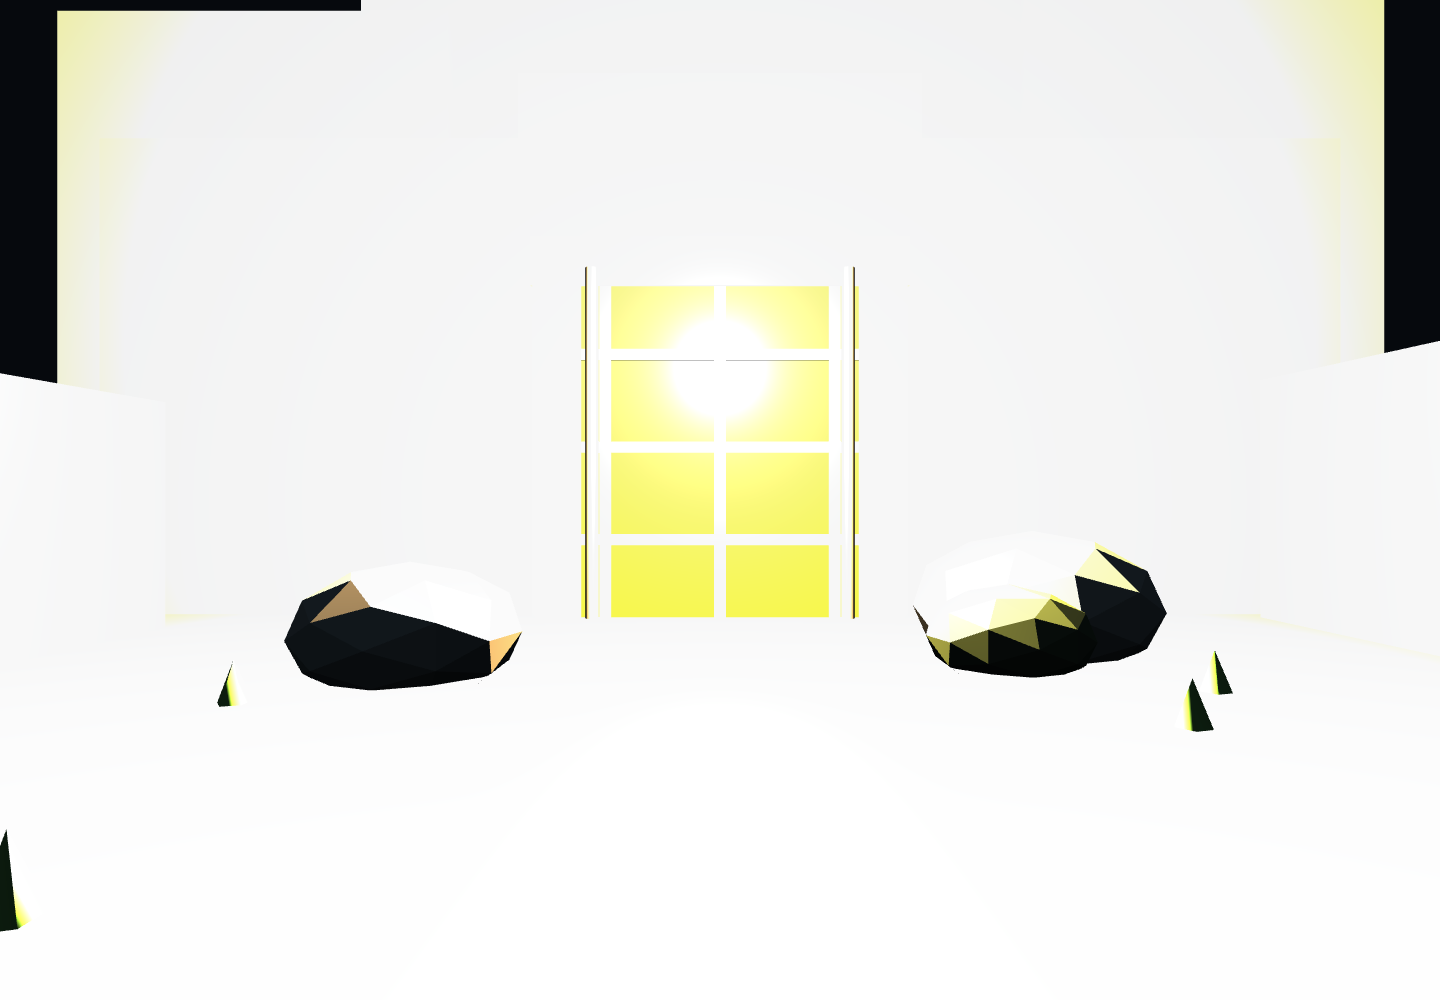
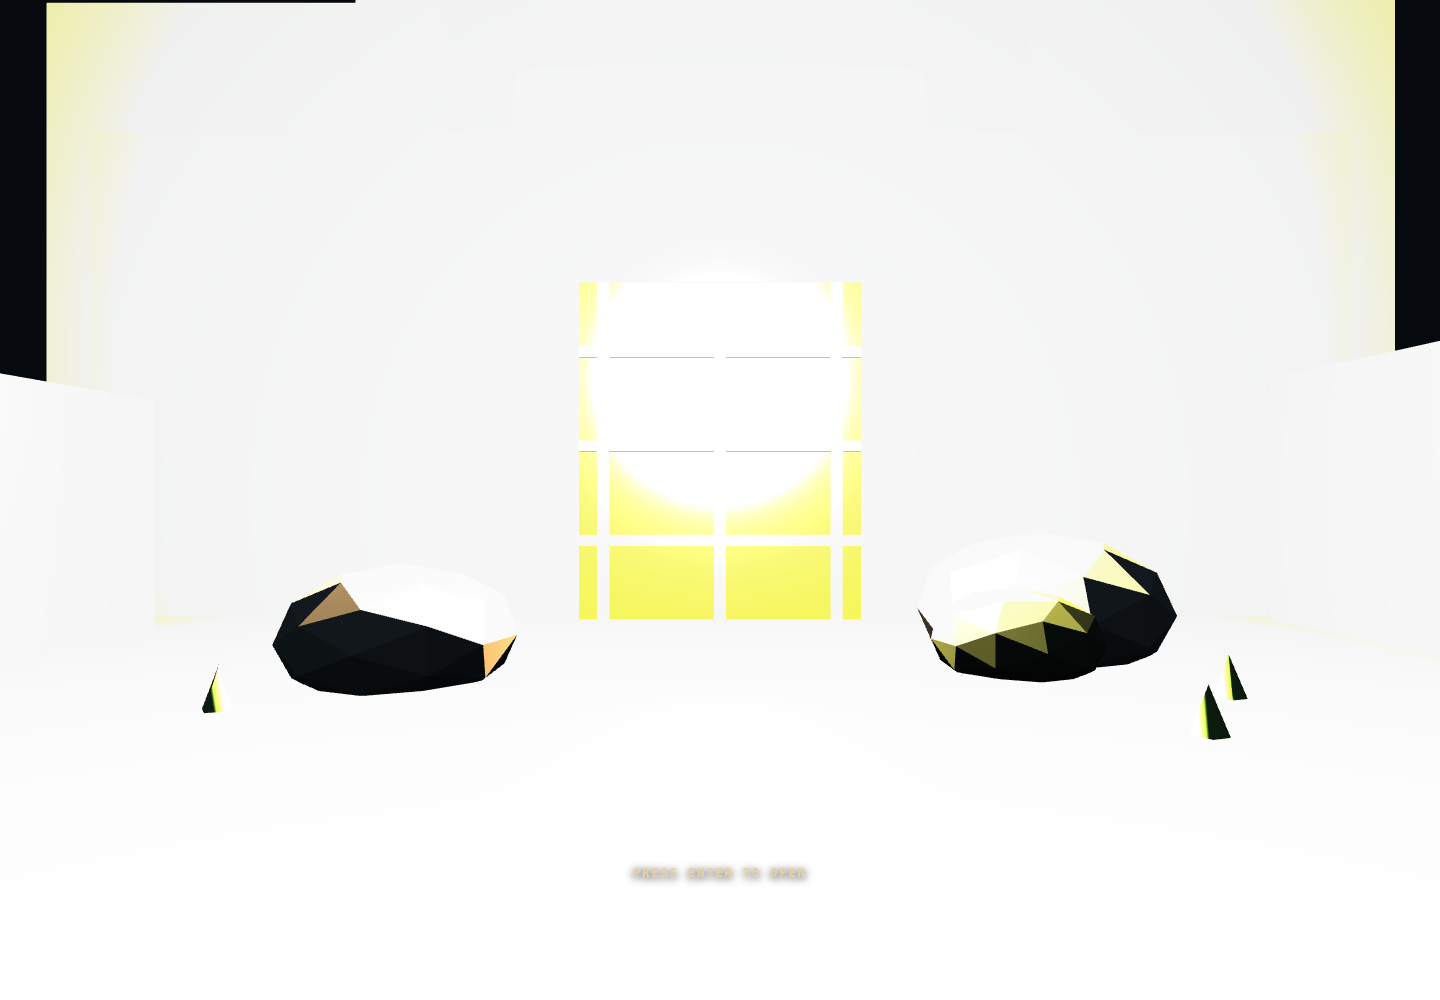
feat: implement main door interaction

diff --git a/src/game/mainDoor.ts b/src/game/mainDoor.ts
@@ -1,19 +1,18 @@
-import { Color3, MeshBuilder, PhysicsAggregate, PhysicsShapeType, StandardMaterial, Vector3, type Scene } from "@babylonjs/core";
-
-export const DOOR_STATE = "CLOSED" as const;
-export type MainDoor = { state: typeof DOOR_STATE; position: Vector3; collisionEnabled: true };
+import { Color3, MeshBuilder, PhysicsAggregate, PhysicsShapeType, StandardMaterial, TransformNode, Vector3, type Scene } from "@babylonjs/core";
+export type DoorState = "CLOSED" | "OPENING" | "OPEN";
+export type MainDoor = { position: Vector3; state: DoorState; angle: number; sealEnabled: boolean; traversable: boolean; root: TransformNode; interact(): boolean; update(dt:number): void; reset(): void };
 
 export function buildMainDoor(scene: Scene, position: Vector3): MainDoor {
-  const wood = new StandardMaterial("door-oak", scene); wood.diffuseColor = new Color3(.13, .065, .025); wood.specularColor = new Color3(.04, .025, .01);
-  const iron = new StandardMaterial("door-iron", scene); iron.diffuseColor = new Color3(.09, .1, .1); iron.specularColor = new Color3(.16, .17, .16);
-  const slab = MeshBuilder.CreateBox("main-door-closed", { width: 3.8, height: 4.6, depth: .34 }, scene); slab.position.copyFrom(position); slab.position.y = 2.3; slab.material = wood;
-  new PhysicsAggregate(slab, PhysicsShapeType.BOX, { mass: 0, friction: .9 }, scene);
-  // One deliberately oversized CLOSED-state seal closes both leaf-edge and jamb gaps.
-  // CAVE-004 can replace this single aggregate when the door begins to animate.
-  const seal = MeshBuilder.CreateBox("main-door-closed-seal", { width: 5.05, height: 5.2, depth: .9 }, scene); seal.position.set(position.x, 2.6, position.z + .1); seal.isVisible = false;
-  new PhysicsAggregate(seal, PhysicsShapeType.BOX, { mass: 0, friction: .95 }, scene);
-  for (const x of [-1.55, 0, 1.55]) { const band = MeshBuilder.CreateBox(`door-band-${x}`, { width: .16, height: 4.8, depth: .43 }, scene); band.position.set(position.x + x, 2.3, position.z - .03); band.material = iron; }
-  for (const y of [1.05, 2.3, 3.55]) { const band = MeshBuilder.CreateBox(`door-brace-${y}`, { width: 3.95, height: .15, depth: .44 }, scene); band.position.set(position.x, y, position.z - .03); band.material = iron; }
-  for (const x of [-1.72, 1.72]) { const hinge = MeshBuilder.CreateCylinder(`door-hinge-${x}`, { height: 4.8, diameter: .18 }, scene); hinge.position.set(position.x + x, 2.3, position.z + .24); hinge.material = iron; }
-  return { state: DOOR_STATE, position: position.clone(), collisionEnabled: true };
+  const wood=new StandardMaterial("door-oak",scene); wood.diffuseColor=new Color3(.18,.085,.03); const iron=new StandardMaterial("door-iron",scene); iron.diffuseColor=new Color3(.12,.13,.13);
+  const root=new TransformNode("main-door-hinge",scene); root.position.set(position.x-1.9,0,position.z);
+  const slab=MeshBuilder.CreateBox("main-door-leaf",{width:3.8,height:4.6,depth:.34},scene); slab.parent=root; slab.position.set(1.9,2.3,0); slab.material=wood;
+  for(const x of [.35,1.9,3.45]){const band=MeshBuilder.CreateBox(`door-band-${x}`,{width:.16,height:4.8,depth:.43},scene);band.parent=root;band.position.set(x,2.3,-.03);band.material=iron;}
+  for(const y of [1.05,2.3,3.55]){const brace=MeshBuilder.CreateBox(`door-brace-${y}`,{width:3.95,height:.15,depth:.44},scene);brace.parent=root;brace.position.set(1.9,y,-.03);brace.material=iron;}
+  let leaf:PhysicsAggregate|undefined; let seal:PhysicsAggregate|undefined; const createColliders=()=>{leaf=new PhysicsAggregate(slab,PhysicsShapeType.BOX,{mass:0,friction:.9},scene); const block=MeshBuilder.CreateBox("main-door-closed-seal",{width:5.05,height:5.2,depth:.9},scene);block.position.set(position.x,2.6,position.z+.1);block.isVisible=false;seal=new PhysicsAggregate(block,PhysicsShapeType.BOX,{mass:0,friction:.95},scene);}; createColliders();
+  let state:DoorState="CLOSED", angle=0, released=false; const max=-1.38;
+  return { position:position.clone(), get state(){return state;}, get angle(){return angle;}, get sealEnabled(){return !!seal;}, get traversable(){return state==="OPEN";}, root,
+    interact(){if(state!=="CLOSED")return false;state="OPENING";return true;},
+    update(dt){if(state!=="OPENING")return;angle=Math.max(max,angle-dt*.72);root.rotation.y=angle;if(!released&&Math.abs(angle)>.88){leaf?.dispose();seal?.dispose();leaf=undefined;seal=undefined;released=true;}if(angle===max)state="OPEN";},
+    reset(){leaf?.dispose();seal?.dispose();angle=0;root.rotation.y=0;state="CLOSED";released=false;createColliders();}
+  };
 }

diff --git a/src/game/game.ts b/src/game/game.ts
@@ -10,17 +10,17 @@ import { selectedProfile } from "./profile";
 import { buildCaveEntrance, type WorldInfo } from "./caveEntrance";
 import { buildChamber } from "./world";
 
-type Snapshot = { world:string; spawnPosition:{x:number;y:number;z:number}; playerPosition:{x:number;y:number;z:number}; cameraPosition:{x:number;y:number;z:number}; velocity:{x:number;y:number;z:number}; planarSpeed:number; grounded:boolean; activeInputs:Record<string,boolean>; cameraYaw:number; cameraPitch:number; targetYaw:number; targetPitch:number; fov:number; headBobOffset:number; breathingOffset:number; pointerLock:boolean; selectedProfile:string; doorState:string; doorCollisionEnabled:boolean; distanceToDoor:number; activeGameLoopCount:number; inputListenerCount:number; frameTimeSummary:{average:number;max:number}; drawCalls:number; activeMeshes:number; physicsBodyCount:number };
+type Snapshot = { world:string; spawnPosition:{x:number;y:number;z:number}; playerPosition:{x:number;y:number;z:number}; cameraPosition:{x:number;y:number;z:number}; velocity:{x:number;y:number;z:number}; planarSpeed:number; grounded:boolean; activeInputs:Record<string,boolean>; cameraYaw:number; cameraPitch:number; targetYaw:number; targetPitch:number; fov:number; headBobOffset:number; breathingOffset:number; pointerLock:boolean; selectedProfile:string; doorState:string; doorAngle:number; interactionAvailable:boolean; doorCollisionEnabled:boolean; doorwayTraversable:boolean; distanceToDoor:number; activeDoorAnimationCount:number; activeGameLoopCount:number; inputListenerCount:number; frameTimeSummary:{average:number;max:number}; drawCalls:number; activeMeshes:number; physicsBodyCount:number };
 declare global { interface Window { __CAVE_GAME_TEST__?: { getSnapshot: () => Readonly<Snapshot> } } }
 export class CaveGame {
-  private engine: Engine; private scene: Scene; private player!: PhysicalPlayer; private input!: PlayerInput; private camera!: FreeCamera; private effects = new CameraEffects(); private profile; private world!: WorldInfo; private yaw = 0; private pitch = 0; private targetYaw = 0; private targetPitch = 0; private times:number[]=[]; private started = false;
+  private engine: Engine; private scene: Scene; private player!: PhysicalPlayer; private input!: PlayerInput; private camera!: FreeCamera; private effects = new CameraEffects(); private profile; private world!: WorldInfo; private prompt!:HTMLDivElement; private interaction=false; private yaw = 0; private pitch = 0; private targetYaw = 0; private targetPitch = 0; private times:number[]=[]; private started = false;
   constructor(private readonly canvas: HTMLCanvasElement, private readonly overlay: HTMLButtonElement) { const params=new URLSearchParams(location.search); this.profile=selectedProfile(params.get("profile")); const review=params.get("review"); this.review=review!==null; this.chamber=review==="movement"||review==="chamber"; this.engine=new Engine(canvas, true); this.scene=new Scene(this.engine); }
   private readonly review: boolean;
   private readonly chamber: boolean;
-  async start() { const havok = await HavokPhysics({ locateFile: () => havokWasmUrl }); this.scene.enablePhysics(new Vector3(0,-9.81,0), new HavokPlugin(true, havok)); if(this.chamber){ buildChamber(this.scene); new HemisphericLight("chamber-light", new Vector3(0,1,0), this.scene).intensity=.65; this.world={name:"chamber",spawn:new Vector3(0,.9,7),yaw:0}; } else this.world=buildCaveEntrance(this.scene); this.player=new PhysicalPlayer(this.scene,this.world.spawn); this.yaw=this.targetYaw=this.world.yaw; this.camera=new FreeCamera("eyes", this.player.position.add(new Vector3(0,this.profile.eyeHeight-CAPSULE_CENTER_HEIGHT,0)),this.scene); this.camera.fov=this.profile.fov; this.camera.minZ=.05; this.input=new PlayerInput(()=>this.reset(),this.review); this.canvas.addEventListener("mousemove", this.onMouse); this.overlay.addEventListener("click",this.enter); this.engine.runRenderLoop(this.frame); this.started=true; if(this.review) window.__CAVE_GAME_TEST__={getSnapshot:()=>Object.freeze({...this.snapshot()})}; }
+  async start() { const havok = await HavokPhysics({ locateFile: () => havokWasmUrl }); this.scene.enablePhysics(new Vector3(0,-9.81,0), new HavokPlugin(true, havok)); if(this.chamber){ buildChamber(this.scene); new HemisphericLight("chamber-light", new Vector3(0,1,0), this.scene).intensity=.65; this.world={name:"chamber",spawn:new Vector3(0,.9,7),yaw:0}; } else this.world=buildCaveEntrance(this.scene); this.player=new PhysicalPlayer(this.scene,this.world.spawn); this.yaw=this.targetYaw=this.world.yaw; this.camera=new FreeCamera("eyes", this.player.position.add(new Vector3(0,this.profile.eyeHeight-CAPSULE_CENTER_HEIGHT,0)),this.scene); this.camera.fov=this.profile.fov; this.camera.minZ=.05; this.prompt=document.createElement("div");this.prompt.id="interaction-prompt";this.prompt.textContent="PRESS ENTER TO OPEN";document.body.append(this.prompt); this.input=new PlayerInput(()=>this.reset(),this.review,()=>{if(this.interaction)this.world.door?.interact();}); this.canvas.addEventListener("mousemove", this.onMouse); this.overlay.addEventListener("click",this.enter); this.engine.runRenderLoop(this.frame); this.started=true; if(this.review) window.__CAVE_GAME_TEST__={getSnapshot:()=>Object.freeze({...this.snapshot()})}; }
   private enter = () => { this.canvas.requestPointerLock(); this.overlay.classList.add("hidden"); };
   private onMouse = (event: MouseEvent) => { if(document.pointerLockElement!==this.canvas)return; const look=applyMouseLook({yaw:this.targetYaw,pitch:this.targetPitch},event.movementX,event.movementY,this.profile); this.targetYaw=look.yaw; this.targetPitch=look.pitch; };
-  private frame=()=>{ const dt=Math.min(.05,this.engine.getDeltaTime()/1000 || 1/60); this.yaw=smoothLook(this.yaw,this.targetYaw,dt,this.profile.lookResponse); this.pitch=smoothLook(this.pitch,this.targetPitch,dt,this.profile.lookResponse); const {speed,actualMovement}=this.player.update(dt,this.input.state,this.yaw,this.profile); const offsets=this.effects.update(dt,speed,actualMovement,this.input.state.backward,this.profile); this.camera.position.copyFrom(this.player.position); this.camera.position.y+=this.profile.eyeHeight-CAPSULE_CENTER_HEIGHT+offsets.bob+offsets.breathing; this.camera.rotation.set(this.pitch,this.yaw,0); this.times.push(dt*1000); if(this.times.length>120)this.times.shift(); if(document.pointerLockElement!==this.canvas)this.overlay.classList.remove("hidden"); this.scene.render(); };
-  reset(){ this.player.reset(this.world.spawn); this.input.clear(); this.effects.reset(); this.yaw=this.world.yaw; this.pitch=0; this.targetYaw=this.world.yaw; this.targetPitch=0; }
-  private snapshot():Snapshot { const e=this.effects.offsets; const counter=(this.engine as unknown as {_drawCalls?:{current?:number}})._drawCalls; const door=this.world.door; return {world:this.world.name,spawnPosition:{x:this.world.spawn.x,y:this.world.spawn.y,z:this.world.spawn.z},playerPosition:{x:this.player.position.x,y:this.player.position.y,z:this.player.position.z},cameraPosition:{x:this.camera.position.x,y:this.camera.position.y,z:this.camera.position.z},velocity:{x:this.player.velocity.x,y:this.player.velocity.y,z:this.player.velocity.z},planarSpeed:Math.hypot(this.player.velocity.x,this.player.velocity.z),grounded:this.player.grounded,activeInputs:{...this.input.state},cameraYaw:this.yaw,cameraPitch:this.pitch,targetYaw:this.targetYaw,targetPitch:this.targetPitch,fov:this.camera.fov,headBobOffset:e.bob,breathingOffset:e.breathing,pointerLock:document.pointerLockElement===this.canvas,selectedProfile:this.profile.name,doorState:door?.state??"NONE",doorCollisionEnabled:door?.collisionEnabled??false,distanceToDoor:door?Vector3.Distance(this.player.position,door.position):Infinity,activeGameLoopCount:this.started?1:0,inputListenerCount:this.input.listenerCount+2,frameTimeSummary:{average:this.times.reduce((a,b)=>a+b,0)/(this.times.length||1),max:Math.max(0,...this.times)},drawCalls:counter?.current ?? 0,activeMeshes:this.scene.meshes.length,physicsBodyCount:this.chamber?9:15}; }
+  private frame=()=>{ const dt=Math.min(.05,this.engine.getDeltaTime()/1000 || 1/60); this.yaw=smoothLook(this.yaw,this.targetYaw,dt,this.profile.lookResponse); this.pitch=smoothLook(this.pitch,this.targetPitch,dt,this.profile.lookResponse); const {speed,actualMovement}=this.player.update(dt,this.input.state,this.yaw,this.profile); this.world.door?.update(dt); const door=this.world.door; const to=door?door.position.subtract(this.player.position):Vector3.Zero(); to.y=0; const facing=door?Vector3.Dot(new Vector3(Math.sin(this.yaw),0,Math.cos(this.yaw)),to.normalize())>.45:false; this.interaction=!!door&&door.state==="CLOSED"&&to.length()<3.1&&facing&&document.pointerLockElement===this.canvas; this.prompt.classList.toggle("visible",this.interaction); const offsets=this.effects.update(dt,speed,actualMovement,this.input.state.backward,this.profile); this.camera.position.copyFrom(this.player.position); this.camera.position.y+=this.profile.eyeHeight-CAPSULE_CENTER_HEIGHT+offsets.bob+offsets.breathing; this.camera.rotation.set(this.pitch,this.yaw,0); this.times.push(dt*1000); if(this.times.length>120)this.times.shift(); if(document.pointerLockElement!==this.canvas)this.overlay.classList.remove("hidden"); this.scene.render(); };
+  reset(){ this.player.reset(this.world.spawn); this.world.door?.reset(); this.input.clear(); this.effects.reset(); this.interaction=false;this.prompt.classList.remove("visible"); this.yaw=this.world.yaw; this.pitch=0; this.targetYaw=this.world.yaw; this.targetPitch=0; }
+  private snapshot():Snapshot { const e=this.effects.offsets; const counter=(this.engine as unknown as {_drawCalls?:{current?:number}})._drawCalls; const door=this.world.door; return {world:this.world.name,spawnPosition:{x:this.world.spawn.x,y:this.world.spawn.y,z:this.world.spawn.z},playerPosition:{x:this.player.position.x,y:this.player.position.y,z:this.player.position.z},cameraPosition:{x:this.camera.position.x,y:this.camera.position.y,z:this.camera.position.z},velocity:{x:this.player.velocity.x,y:this.player.velocity.y,z:this.player.velocity.z},planarSpeed:Math.hypot(this.player.velocity.x,this.player.velocity.z),grounded:this.player.grounded,activeInputs:{...this.input.state},cameraYaw:this.yaw,cameraPitch:this.pitch,targetYaw:this.targetYaw,targetPitch:this.targetPitch,fov:this.camera.fov,headBobOffset:e.bob,breathingOffset:e.breathing,pointerLock:document.pointerLockElement===this.canvas,selectedProfile:this.profile.name,doorState:door?.state??"NONE",doorAngle:door?.angle??0,interactionAvailable:this.interaction,doorCollisionEnabled:door?.sealEnabled??false,doorwayTraversable:door?.traversable??false,distanceToDoor:door?Vector3.Distance(this.player.position,door.position):Infinity,activeDoorAnimationCount:door?.state==="OPENING"?1:0,activeGameLoopCount:this.started?1:0,inputListenerCount:this.input.listenerCount+2,frameTimeSummary:{average:this.times.reduce((a,b)=>a+b,0)/(this.times.length||1),max:Math.max(0,...this.times)},drawCalls:counter?.current ?? 0,activeMeshes:this.scene.meshes.length,physicsBodyCount:this.chamber?9:15}; }
 }

diff --git a/tests/e2e/movement.spec.ts b/tests/e2e/movement.spec.ts
@@ -122,9 +122,10 @@ test("cave entrance exterior keeps the CLOSED door readable, blocking, and inter
   const approach = await snapshot(page); expect(approach.distanceToDoor, JSON.stringify({ initial, approach })).toBeLessThan(initial.distanceToDoor);
   await move(page, ["w"], 3500); const door = await snapshot(page); await page.screenshot({ path: "docs/review/cave-003-main-door.png" });
   expect(door.playerPosition.z).toBeGreaterThan(-4.9); expect(door.distanceToDoor, JSON.stringify(door)).toBeLessThan(2); expect(door.doorState).toBe("CLOSED");
-  await page.keyboard.press("Enter"); await page.waitForTimeout(180); const afterEnter = await snapshot(page); await page.screenshot({ path: "docs/review/cave-003-door-collision.png" });
-  expect(afterEnter.doorState).toBe("CLOSED"); expect(afterEnter.doorCollisionEnabled).toBe(true);
-  await page.keyboard.press("r"); await page.waitForTimeout(180); await move(page, ["s"], 850); await page.screenshot({ path: "docs/review/cave-003-wide-entrance.png" });
+  expect(door.interactionAvailable).toBe(true); await page.screenshot({ path: "docs/review/cave-004-interaction-prompt.png" });
+  await page.keyboard.press("Enter"); await page.waitForTimeout(180); const afterEnter = await snapshot(page); await page.screenshot({ path: "docs/review/cave-004-opening.png" });
+  expect(afterEnter.doorState).toBe("OPENING"); await page.keyboard.press("Enter"); await page.waitForTimeout(2200); const opened=await snapshot(page); await page.screenshot({ path:"docs/review/cave-004-open-door.png" }); expect(opened.doorState).toBe("OPEN"); expect(opened.doorwayTraversable).toBe(true);
+  await move(page,["w"],700); await page.screenshot({path:"docs/review/cave-004-threshold.png"}); await page.keyboard.press("r"); await page.waitForTimeout(180); await page.screenshot({path:"docs/review/cave-004-reset-closed.png"}); await move(page, ["s"], 850); await page.screenshot({ path: "docs/review/cave-003-wide-entrance.png" });
   const wide = await snapshot(page); expect(wide.playerPosition.z).toBeGreaterThanOrEqual(initial.playerPosition.z); expect(wide.activeGameLoopCount).toBe(1); expect(wide.inputListenerCount).toBe(6);
   expect(errors).toEqual([]); expect(external).toEqual([]);
 });

diff --git a/src/game/input.ts b/src/game/input.ts
@@ -2,10 +2,10 @@ export type InputState = { forward: boolean; backward: boolean; left: boolean; r
 export class PlayerInput {
   readonly state: InputState = { forward: false, backward: false, left: false, right: false };
   private listeners = 0;
-  constructor(private readonly onReset: () => void, private readonly review: boolean) {
+  constructor(private readonly onReset: () => void, private readonly review: boolean, private readonly onInteract: () => void) {
     window.addEventListener("keydown", this.keyDown); window.addEventListener("keyup", this.keyUp); window.addEventListener("blur", this.clear); document.addEventListener("pointerlockchange", this.onLock); this.listeners = 4;
   }
-  private keyDown = (event: KeyboardEvent) => { if (this.review && event.code === "KeyR") this.onReset(); this.set(event.code, true); };
+  private keyDown = (event: KeyboardEvent) => { if (this.review && event.code === "KeyR") this.onReset(); if(event.code==="Enter"&&!event.repeat)this.onInteract(); this.set(event.code, true); };
   private keyUp = (event: KeyboardEvent) => this.set(event.code, false);
   private set(code: string, value: boolean) { if (code === "KeyW" || code === "ArrowUp") this.state.forward = value; if (code === "KeyS" || code === "ArrowDown") this.state.backward = value; if (code === "KeyA" || code === "ArrowLeft") this.state.left = value; if (code === "KeyD" || code === "ArrowRight") this.state.right = value; }
   clear = () => { Object.keys(this.state).forEach((key) => { this.state[key as keyof InputState] = false; }); };

diff --git a/src/style.css b/src/style.css
@@ -2,3 +2,5 @@
 html, body, #app, #game-canvas { width: 100%; height: 100%; margin: 0; overflow: hidden; display: block; }
 #entry-overlay { position: fixed; inset: 0; width: 100%; border: 0; background: radial-gradient(circle, rgba(22,30,34,.45), rgba(1,3,4,.9)); color: #d4c49a; font: 600 14px ui-monospace, monospace; letter-spacing: .24em; cursor: pointer; }
 #entry-overlay.hidden { display: none; }
+#interaction-prompt { display:none; position:fixed; left:50%; bottom:12%; transform:translateX(-50%); color:#e5d1a4; font:600 12px ui-monospace,monospace; letter-spacing:.16em; text-shadow:0 2px 8px #000; pointer-events:none; }
+#interaction-prompt.visible { display:block; }

diff --git a/PLAN.md b/PLAN.md
@@ -1,7 +1,7 @@
 1. CAVE-001 — Movement prototype
 2. CAVE-002 — COMPLETE AND LOCKED
 3. CAVE-003 — COMPLETE AND VALIDATED
-4. CAVE-004 — Implement Enter-Based Main-Door Interaction
-5. CAVE-005 — Cave interior and specialization hall
+4. CAVE-004 — COMPLETE AND VALIDATED
+5. CAVE-005 — Build the Cave Interior and Specialization Hall
 6. CAVE-006 — Visual polish
 7. CAVE-007 — First-playable freeze

diff --git a/docs/ARCHITECTURE.md b/docs/ARCHITECTURE.md
@@ -1,0 +1,3 @@
+# Architecture
+
+`MainDoor` owns the sole door state machine (`CLOSED`, `OPENING`, `OPEN`), visual hinge transform, animation clock, and closed collision aggregates. `CaveGame` only evaluates pointer-lock proximity/facing eligibility and requests one interaction; it owns the prompt and reset. The player controller remains unchanged.

diff --git a/docs/review/CAVE-004-DOOR-INTERACTION.md b/docs/review/CAVE-004-DOOR-INTERACTION.md
@@ -1,0 +1,3 @@
+# CAVE-004 door interaction
+
+The prompt appears only within 3.1 m of the front-facing door target while pointer lock is active. Enter advances CLOSED to OPENING once; a deterministic 1.9-second inward hinge turn reaches OPEN. The sealed and leaf colliders remain through the early turn, then release once the gap is usable. Reset cancels the turn, restores angle zero, CLOSED, and both colliders. A short threshold is all that is available; no corridor or hall was built.

diff --git a/docs/STATUS.md b/docs/STATUS.md
@@ -1,3 +1,3 @@
 # Status
 
-CAVE-003 — COMPLETE AND VALIDATED. The normal URL starts outside a readable mountainside cave entrance with a fully sealed CLOSED door; movement remains locked. The chamber is review-only. Next: CAVE-004 — Implement Enter-Based Main-Door Interaction.
+CAVE-004 — COMPLETE AND VALIDATED. The cave door opens through an Enter-gated CLOSED → OPENING → OPEN lifecycle and reset restores the exterior. Next: CAVE-005 — Build the Cave Interior and Specialization Hall.

diff --git a/docs/WORKLOG.md b/docs/WORKLOG.md
@@ -1,5 +1,6 @@
 # Worklog
 
+- 2026-07-23 — Completed CAVE-004: centralized hinged door state machine, proximity/facing Enter interaction, deterministic opening, safe collision release, prompt, and reset restoration.
 - 2026-07-22 23:16:44 IDT — Started CAVE-003 exterior refinement: hardening the closed-door collision envelope, reshaping the facade toward a mountainside, and improving outdoor readability without starting CAVE-004.
 - 2026-07-22 22:56:57 IDT — Started CAVE-003: inspecting the locked controller and replacing the normal scene with a playable cave-entrance exterior while preserving the chamber as review-only.
 - 2026-07-22 23:05:00 IDT — Completed CAVE-003: added local procedural exterior geometry, static facade/door collision, CLOSED door state, atmosphere, review diagnostics, and entrance browser coverage; no CAVE-004 interaction started.